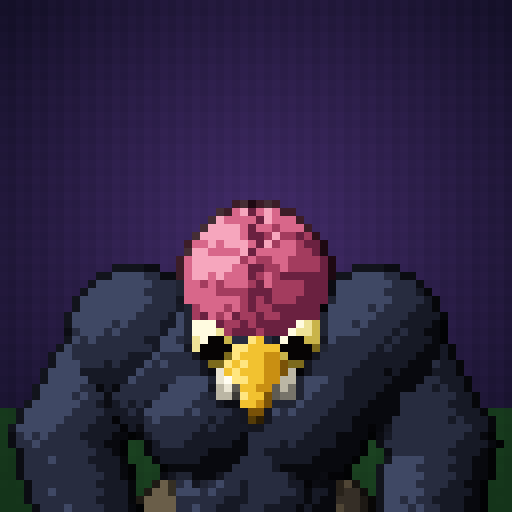
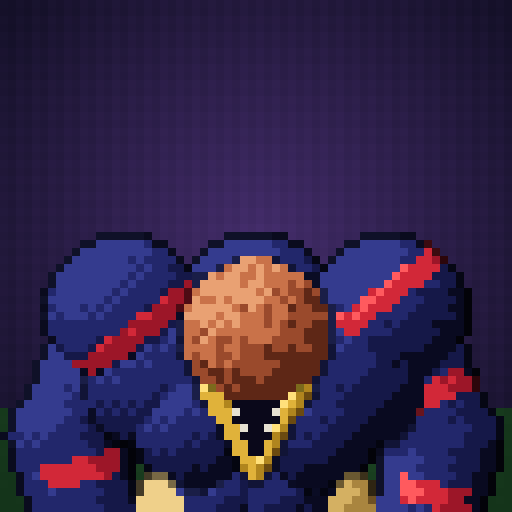
Nouveau look de Brainless d'après la référence : peau indigo à rayures rouges, cerveau orange, bec doré en V, pantalon beige, bandes-crânes, grandes mains

diff --git a/js/nomu.js b/js/nomu.js
@@ -3,19 +3,23 @@
 // Debout quand il marche, à quatre pattes quand il sprinte.
 import { renderModel, ramp, rotZ, add, ik, hash } from './raster.js';
 
-const SKIN = ramp('#08090e', '#161925', '#272c3f', '#3f4864');
-const BRAIN = ramp('#6a2140', '#a33c5e', '#d8678a', '#f6a6bd');
-const PANTS = ramp('#1d1914', '#352e26', '#4f4535', '#6a5e49');
+const SKIN = ramp('#090a20', '#151848', '#22276b', '#343b8e');
+const BRAIN = ramp('#5e2716', '#9a4a2c', '#c97249', '#e9a173');
+const PANTS = ramp('#6e5124', '#a9853f', '#d4b062', '#efd08a');
+const STRIPE = ramp('#4e0c18', '#9c1628', '#d22838', '#ff5a5e');
+const BONE = ramp('#55575e', '#8d9097', '#c4c6cb', '#eceef0');
+const GOLD = ramp('#6b4a10', '#b0851e', '#e0b23a', '#ffe07a');
+const MOUTH_IN = [10, 8, 26];
 const TEETH = ramp('#77746a', '#bbb6a4', '#e9e4d2', '#fffdf2');
 const EYE = ramp('#7c6a1c', '#c9b44a', '#eee298', '#fffbe0');
 const BEAK = ramp('#7a5208', '#c98f12', '#f2c230', '#ffe680');
 const BEAK_LOW = ramp('#5e3e06', '#a8760e', '#d9a924', '#f2cf5a');
-const CLAW = ramp('#6b6355', '#a39a86', '#d8d0bc', '#f4efe2');
+const CLAW = ramp('#3a3f78', '#585ea0', '#8086c4', '#aab0e0');
 const MOUTH = [22, 6, 12];
 const PUPIL = [6, 4, 4];
 
-export const SPRITE_W = 64, SPRITE_H = 68, ORIGIN_X = 32, ORIGIN_Y = 62;
-export const SCALE = 0.72;
+export const SPRITE_W = 64, SPRITE_H = 76, ORIGIN_X = 32, ORIGIN_Y = 62;
+export const SCALE = 0.75;
 
 export const ANIMS = {
   idle: { frames: 6, fps: 6, loop: true },
@@ -162,6 +166,18 @@ export function poseFor(anim, t) {
   return basePose();
 }
 
+// Rayures rouges en travers d'un membre (positions le long de l'os).
+const stripes = (...ts) => (p) => {
+  for (const c of ts) if (Math.abs(p.t - c) < 0.09 && p.shade > 0 && p.nx > -0.6) return STRIPE[Math.min(3, p.shade)];
+  return p.shade;
+};
+// Rayure en diagonale sur une boule (épaules, dos).
+const slash = (off) => (p) => {
+  const d = (p.ex * 0.6 + p.ey * 0.8) / p.r - off;
+  if (Math.abs(d) < 0.16 && p.shade > 0) return STRIPE[Math.min(3, p.shade)];
+  return p.shade;
+};
+
 export function nomuParts(P) {
   const tw = P.twist;
   const ub = [0, P.lean * 0.6, P.bob + P.lift - P.crouch * 0.8];
@@ -175,89 +191,95 @@ export function nomuParts(P) {
   const U = (p) => pitch(add(rotZ(p, tw), ub)); // point du haut du corps
   const parts = [];
 
-  // --- jambes ---
+  // --- jambes : pantalon beige aux genoux, bandes-crânes grises sur les tibias, grands pieds ---
   for (const side of [-1, 1]) {
     const f = side < 0 ? P.fL : P.fR;
     const g = side < 0 ? 8 : 9;
-    const hipJ = add(hip, [side * 4, 0, 0]);
+    const hipJ = add(hip, [side * 4.2, 0, 0]);
     const ankle = [f[0], f[1], 3 + f[2] + P.lift];
     const knee = ik(hipJ, ankle, 9.5, 9, [0, 1, 0.15]);
-    const mid = lerpV(knee, ankle, 0.5);
-    parts.push({ a: hipJ, b: knee, r1: 4, r2: 3.5, ramp: PANTS, group: g });
+    parts.push({ a: hipJ, b: knee, r1: 4.5, r2: 4, ramp: PANTS, group: g,
+      tex: (p) => (Math.abs(p.ex) < 0.5 && p.t < 0.5 && p.shade > 0 ? p.shade - 1 : p.shade) }); // couture
+    parts.push({ a: knee, r1: 4, ramp: PANTS, group: g,
+      tex: (p) => (p.ey > p.r * 0.45 && hash(p.x, p.y, side) < 0.5 ? null : p.shade) }); // revers déchiré
+    parts.push({ a: knee, b: ankle, r1: 3.1, r2: 2.6, ramp: SKIN, group: g });
+    const b0 = lerpV(knee, ankle, 0.22 + (side > 0 ? 0.18 : 0)), b1 = lerpV(knee, ankle, 0.45 + (side > 0 ? 0.18 : 0));
     parts.push({
-      a: knee, b: mid, r1: 3.5, r2: 3.2, ramp: PANTS, group: g,
-      tex: (p) => (p.t > 0.65 && hash(p.x, p.y, side) < 0.45 ? null : p.shade), // bas déchiré
+      a: b0, b: b1, r1: 3.6, ramp: BONE, group: 16 + side,
+      tex: (p) => {
+        // petite tête de mort : deux orbites et un nez
+        const u = p.ex / p.r, v = p.ey / p.r;
+        if (p.nz > 0.45 && Math.abs(Math.abs(u) - 0.32) < 0.17 && Math.abs(v + 0.05) < 0.22) return [20, 20, 26];
+        if (p.nz > 0.6 && Math.abs(u) < 0.08 && v > 0.25 && v < 0.5) return [40, 40, 48];
+        return p.shade;
+      },
     });
-    parts.push({ a: mid, b: ankle, r1: 2.7, r2: 2.3, ramp: SKIN, group: g });
-    parts.push({ a: ankle, b: add(ankle, [side * 0.5, 3.8, -1.8]), r1: 2.2, r2: 1.9, ramp: SKIN, group: g });
+    const toe = add(ankle, [side * 0.6, 4.6, -2]);
+    parts.push({ a: ankle, b: toe, r1: 2.9, r2: 2.5, ramp: SKIN, group: g });
+    for (const k of [-1, 0, 1]) {
+      parts.push({ a: add(toe, [k * 1.5, 0, 0]), b: add(toe, [k * 1.9, 2.4, -0.6]), r1: 1.05, r2: 0.8, ramp: SKIN, group: g });
+    }
   }
-  parts.push({ a: hip, r1: 5.6, ramp: PANTS, group: 10 });
+  parts.push({ a: hip, r1: 5.9, ramp: PANTS, group: 10,
+    tex: (p) => (p.ey < -p.r * 0.55 && p.shade > 0 ? p.shade - 1 : p.shade) }); // ceinture
 
-  // --- torse sec et musclé ---
+  // --- torse : taille fine, épaules et trapèzes énormes, rayures rouges ---
   const br = P.breathe * 0.3;
-  parts.push({ a: pitch(add(hip, [0, 1.2, 3])), b: U([0, 0.5, 29]), r1: 5.8, r2: 6.8, ramp: SKIN, group: 1 });
-  parts.push({ a: U([-5.5, -0.5, 32.5]), b: U([5.5, -0.5, 32.5]), r1: 5.5, ramp: SKIN, group: 1 });
-  parts.push({ a: U([0, -2.5, 35.5 + br]), r1: 6, ramp: SKIN, group: 1 });
-  parts.push({ a: U([-3.8, 3.4, 30.5 + br]), r1: 4.3, ramp: SKIN, group: 11 });
-  parts.push({ a: U([3.8, 3.4, 30.5 + br]), r1: 4.3, ramp: SKIN, group: 12 });
-  // abdos
+  parts.push({ a: pitch(add(hip, [0, 1.2, 3])), b: U([0, 0.5, 29]), r1: 5.6, r2: 7.2, ramp: SKIN, group: 1 });
+  parts.push({ a: U([-6.5, -0.5, 32.5]), b: U([6.5, -0.5, 32.5]), r1: 6, ramp: SKIN, group: 1 });
+  parts.push({ a: U([0, -5.2, 33 + br]), r1: 6.3, ramp: SKIN, group: 1, tex: slash(0.35) }); // dos voûté, derrière le cerveau
+  parts.push({ a: U([-4, 3.4, 30 + br]), r1: 4.6, ramp: SKIN, group: 11 });
+  parts.push({ a: U([4, 3.4, 30 + br]), r1: 4.6, ramp: SKIN, group: 12 });
   for (const x of [-1.8, 1.8]) {
     parts.push({ a: pitch(add(hip, [x, 4.6, 6.5])), b: U([x, 4.3, 25]), r1: 2.1, ramp: SKIN, group: 13 });
   }
 
-  // --- bras longs ---
+  // --- bras très longs, grandes mains à doigts griffus ---
   for (const side of [-1, 1]) {
     const h = side < 0 ? P.hL : P.hR;
     const hand = P.handsAbs ? h : pitch(add(h, ub));
     const g = side < 0 ? 6 : 7;
-    const sh = U([side * 8.6, -1, 34.5 + P.breathe * 0.4]);
+    const sh = U([side * 9.4, -1, 35 + P.breathe * 0.4]);
     const ed = P.elbowDown;
     const elbow = ik(sh, hand, 11, 10.5, [side * (0.7 - ed * 0.3), -0.7 + ed * 0.5, -0.2 - ed * 1.2]);
-    parts.push({ a: sh, r1: 4.6, ramp: SKIN, group: g });
-    parts.push({ a: sh, b: elbow, r1: 4, r2: 3.4, ramp: SKIN, group: g });
-    parts.push({ a: elbow, b: hand, r1: 3.6, r2: 3, ramp: SKIN, group: g });
-    parts.push({ a: hand, r1: 3.2, ramp: SKIN, group: g });
-    // doigts griffus : prolongent l'avant-bras, s'écartent et se recourbent
+    parts.push({ a: U([side * 9.4, -1.5, 36.5]), r1: 5.4, ramp: SKIN, group: g, tex: side > 0 ? slash(0.3) : slash(-0.2) });
+    parts.push({ a: sh, b: elbow, r1: 4.4, r2: 3.6, ramp: SKIN, group: g, tex: side < 0 ? stripes(0.6) : undefined });
+    parts.push({ a: elbow, b: hand, r1: 3.9, r2: 3.2, ramp: SKIN, group: g, tex: stripes(side < 0 ? 0.35 : 0.25) });
+    parts.push({ a: hand, r1: 3.7, ramp: SKIN, group: g });
+    // longs doigts recourbés
     let dx = hand[0] - elbow[0], dy = hand[1] - elbow[1], dz = hand[2] - elbow[2];
     const dl = Math.hypot(dx, dy, dz) || 1;
     dx /= dl; dy /= dl; dz /= dl;
-    for (const k of [-1, 0, 1]) {
-      const base = [hand[0] + dx * 2.2 + k * 1.4, hand[1] + dy * 2.2 + 0.6, hand[2] + dz * 2.2];
-      const tip = [base[0] + dx * 2.4 + k * 0.7, base[1] + dy * 2.4 + 1.2 + P.curl * 1.2, base[2] + dz * 2.4 - P.curl * 0.6];
-      parts.push({
-        a: base, b: tip, r1: 1.15, r2: 0.6, ramp: SKIN, group: g,
-        tex: (p) => (p.t > 0.55 ? CLAW[Math.min(3, p.shade + 1)] : p.shade),
-      });
+    for (const k of [-1.5, -0.5, 0.5, 1.5]) {
+      const base = [hand[0] + dx * 2.4 + k * 1.1, hand[1] + dy * 2.4 + 0.8, hand[2] + dz * 2.4];
+      const mid = [base[0] + dx * 2.2 + k * 0.4, base[1] + dy * 2.2 + 0.8, base[2] + dz * 2.2];
+      const tip = [mid[0] + dx * 1.2, mid[1] + dy * 1.2 + 1 + P.curl * 1.2, mid[2] + dz * 1.2 - 1 - P.curl * 0.4];
+      parts.push({ a: base, b: mid, r1: 1.2, r2: 1, ramp: SKIN, group: g });
+      parts.push({ a: mid, b: tip, r1: 1, r2: 0.55, ramp: SKIN, group: g,
+        tex: (p) => (p.t > 0.6 ? CLAW[Math.min(3, p.shade + 1)] : p.shade) });
     }
   }
 
-  // --- tête : cerveau à l'air, gros yeux, bec jaune plein de dents ---
-  const head = add(U([0, 4, 38 + P.nod * 0.4]), [0, P.lean * 0.35, P.headUp]);
+  // --- tête enfoncée entre les épaules : gros cerveau, petits yeux, bec doré en V ---
+  // à quatre pattes, la tête sort devant les épaules au lieu de rester enfoncée
+  const head = add(U([0, 4.2 + P.pitch * 6, 35 + P.nod * 0.4]), [0, P.lean * 0.35, P.headUp + P.pitch * 3]);
   const H = (p) => add(head, rotZ(p, tw));
   const jaw = P.jaw;
-  parts.push({ a: head, r1: 4.2, ramp: SKIN, group: 2 });
-  parts.push({ a: H([0, 2.4, -0.4]), b: H([0, 7.2, -1.4]), r1: 2.6, r2: 0.9, ramp: BEAK, group: 14 });
-  parts.push({ a: H([0, 2.2, -2.6 - jaw]), b: H([0, 6, -2.9 - jaw * 1.4]), r1: 1.9, r2: 0.8, ramp: BEAK_LOW, group: 15 });
-  parts.push({
-    a: H([-1.7, 3.8, -1.9 - jaw * 0.5]), b: H([1.7, 3.8, -1.9 - jaw * 0.5]), r1: 1.25 + jaw * 0.3, ramp: TEETH, group: 5,
-    tex: (p) => {
-      if (Math.abs(p.ey) < 0.35 + jaw * 0.3) return MOUTH;
-      return (p.x & 1) && p.shade > 1 ? p.shade - 1 : p.shade;
-    },
-  });
+  parts.push({ a: head, r1: 3.9, ramp: SKIN, group: 2 });
+  // intérieur sombre du bec, qui s'ouvre avec la mâchoire
+  parts.push({ a: H([0, 3, -0.8]), b: H([0, 4.4, -4.6 - jaw]), r1: 2 + jaw * 0.4, r2: 0.8, ramp: [MOUTH_IN, MOUTH_IN, MOUTH_IN, MOUTH_IN], group: 5,
+    tex: (p) => (p.t > 0.15 && p.t < 0.6 && Math.abs(p.ex) > p.r * 0.55 && (p.y & 1) ? [230, 225, 210] : MOUTH_IN) });
   for (const side of [-1, 1]) {
-    parts.push({
-      a: H([side * 2.9, 2.4, 1]), r1: 1.8, ramp: EYE, group: 4,
-      tex: (p) => (p.nx * p.fc[0] + p.ny * p.fc[1] + p.nz * p.fc[2] > 0.82 ? PUPIL : p.shade),
-    });
+    parts.push({ a: H([side * 2.9, 2.5, -0.2]), b: H([0, 4.9, -5.4 - jaw]), r1: 0.95, r2: 0.7, ramp: GOLD, group: 14 });
+    parts.push({ a: H([side * 2.6, 2.3, 1.2]), r1: 1.25, ramp: EYE, group: 4,
+      tex: (p) => (p.nx * p.fc[0] + p.ny * p.fc[1] + p.nz * p.fc[2] > 0.85 ? PUPIL : p.shade) });
   }
   parts.push({
-    a: H([0, -0.8, 4]), r1: 5.1, ramp: BRAIN, group: 3,
+    a: H([0, 0.4, 3.6]), r1: 5.2, ramp: BRAIN, group: 3,
     tex: (p) => {
       const u = p.ex / p.r, v = p.ey / p.r;
-      const fold = Math.sin(u * 8.5 + Math.sin(v * 7) * 1.6) * Math.cos(v * 6 - u * 2);
-      if (Math.abs(fold) < 0.22) return Math.max(0, p.shade - 1);
-      if (Math.abs(u) < 0.09 && v < 0.2) return 0; // scissure centrale
+      const fold = Math.sin(u * 9 + Math.sin(v * 7) * 1.6) * Math.cos(v * 6.5 - u * 2);
+      if (Math.abs(fold) < 0.24) return Math.max(0, p.shade - 1);
       return p.shade;
     },
   });

diff --git a/sw.js b/sw.js
@@ -1,6 +1,6 @@
 // Cache hors-ligne : le jeu marche même sans réseau une fois ouvert.
 // Change VERSION à chaque mise à jour pour forcer le rafraîchissement.
-const VERSION = 'brainless-v3';
+const VERSION = 'brainless-v4';
 const FILES = [
   './', './index.html', './manifest.webmanifest',
   './js/main.js', './js/world.js', './js/noise.js', './js/raster.js', './js/nomu.js', './js/sprites.js', './js/font.js',
